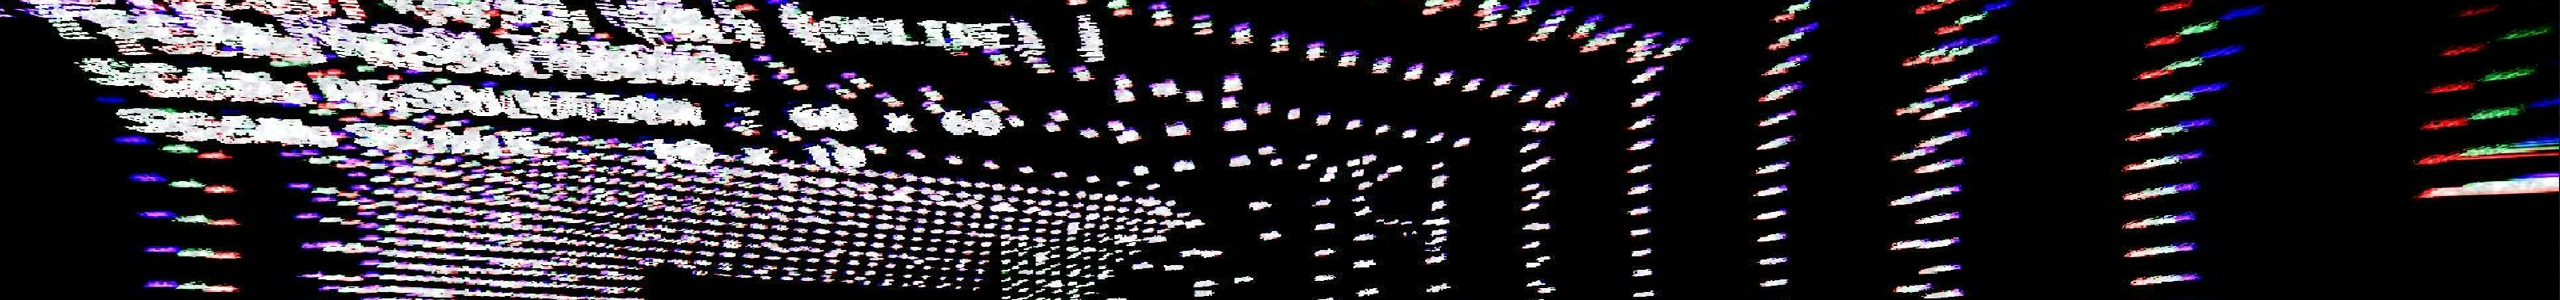
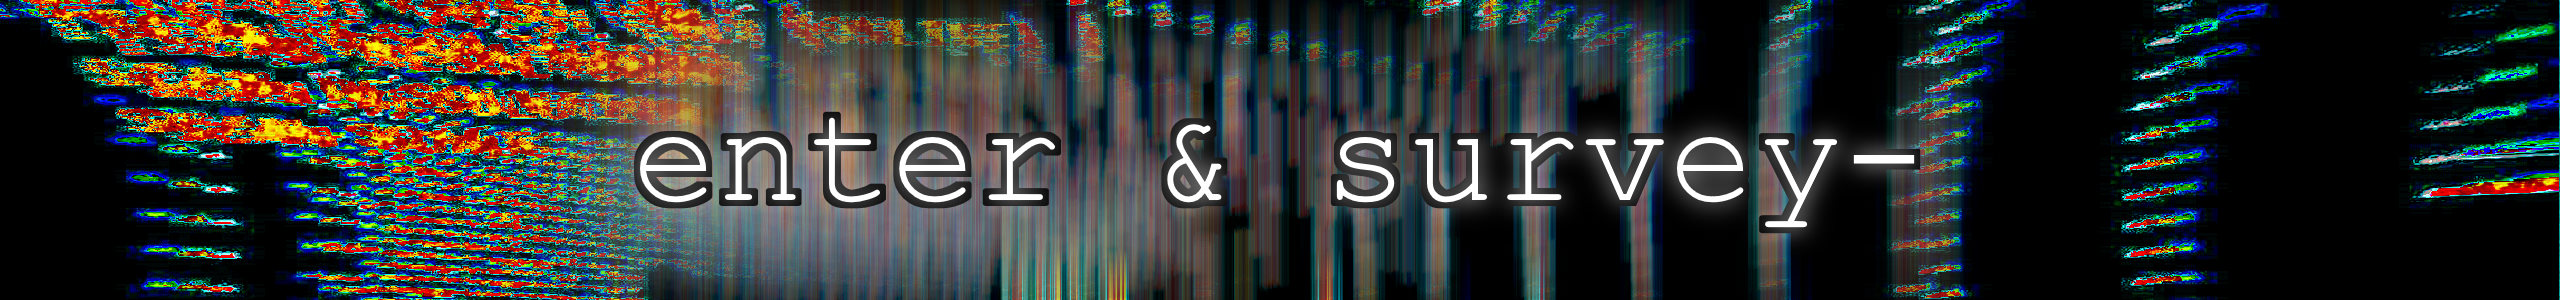
Website V2

diff --git a/index.html b/index.html
@@ -21,65 +21,30 @@
     <body>
         <div class="center">
             <script src="assets/scripts/header.js"></script>
-            
-            <h2>About</h2>
-            <hr>
-            <p>
-                We are a small British independent game studio & publisher creating quality PC games. 
-                <br><br>
-                Our current flagship is Wyoming Winter which was released in December 2022 on Steam. It is a multiplayer arcade horror game in which a group of department of defence employees sneak around an office complex in hopes of finding a defence against the entity stalking them through the hallways.
-                <br><br>
-                We honestly strive to only publish games we ourselves find fun. Origional, fun experiences from the start.
-            </p>            
+            <br>
+            <br>
+            <br>
+            <br>
+            <br>
+            <br>
+            <br>
+            <br>
+            <br>
             <br>
             
-            <h2>Our In-House Games</h2>
-            <hr>
-
-            <div>
-                <a href="https://store.steampowered.com/app/2214170/Wyoming_Winter/" target="_blank"> <img src="assets/images/wyomingwinter.jpg" style="cursor: pointer;"> </a>
+            <h2 style="text-align:center;">An independent British games studio working on great games.</h2>
+            <p style="text-align:center; margin-top: -1%; color:lightgray;">Based in the UK, ValleyHound Games is a small independent game studio currently working on Wyoming Winter.</p>
+            <p style="text-align:center; margin-top: -1%; color:lightgray;">We're a Steamworks partner and self publish to Steam.</p>
+            <br>
+            <br>
+            <br>
+            <br>
+            <div style="width:100%;vertical-align:right;text-align:right;">
+                <a href="https://store.steampowered.com/app/2214170/Wyoming_Winter/" target="_blank"><img src="assets/images/wyomingwinter.jpg" style="cursor: pointer; display: inline-block; width: 49.5%;"></a>
+                <a href="https://valleyhound.itch.io/enter-and-survey" target="_blank"><img src="assets/images/entersurvey.jpg" style="cursor: pointer; display: inline-block; width: 49.5%"></a>
+                <img src="assets/images/vhbase.jpg" alt="Coming Soon." style="cursor: pointer; display: inline-block; width: 49.5%">
             </div>
-            <h3>Wyoming Winter - Steam Publication</h3>
-            <p>Published in 2022 to itch.io before being made accessible on Steam December 9th the same year, Wyoming Winter is our current flagship in-house development and represents more than two years of development & refinement.</p>
             <br>
-            <br>
-
-
-
-            <div>
-                <a href="https://valleyhound.itch.io/enter-and-survey" target="_blank"> <img src="assets/images/entersurvey.jpg" style="cursor: pointer;"> </a>
-            </div>
-            <h3>Enter & Survey - Tech Demo / Upcoming Steam Publication</h3>
-            <p>Initially produced as a game jam entry, Enter & Survey quickly became a ambient horror favourite on itch.io thanks to its unique art style and mechanics. E&S is currently under development for a future full Steam release.</p>
-            <br>
-            <br>
-
-            <h2>Our Products</h2>
-            <hr>
-
-            <div>
-                <a href="" target="_blank"> <img src="assets/images/vhbase.jpg" style="cursor: pointer;"> </a>
-            </div>
-            <h3>ValleyHound Base - A Complete Standard for Unity Prototyping</h3>
-            <p>ValleyHound Base is a complete standard development toolset for the Unity game engine designed with ValleyHound Game's workflows. Becoming available for clients soon it will be a showcase of internal tools and demonstrate our processes for game development. ValleyHound Base is built with premade internal development tools, assets and workflows. A key part of VHBase is <i>VHB oversight</i> which keeps track of the scene and assets to ensure that tight rules and workflows are maintained to avoid sloppy work.</p>
-            
-            <br>
-            <h2>Tweets</h2>
-            <hr>
-            <a class="twitter-timeline" data-height="800" data-dnt="true" href="https://twitter.com/valleyhoundsoft?ref_src=twsrc%5Etfw">Tweets by valleyhoundsoft</a> <script async src="https://platform.twitter.com/widgets.js" charset="utf-8"></script> 
-
-       
-            
-            <br>
-            <h2>Contact</h2>
-            <hr>
-            <p>We usually respond within 12 hours to support requests but may take up to 24 for business related requests.</p>
-            <p><b>Email (player support) : </b><a href="mailto:support@valleyhound.games"><u>support@valleyhound.games</u></a><br>
-            <b>Email (business client support) : </b><a href="mailto:clients@valleyhound.games"><u>clients@valleyhound.games</u></a><br>
-            <b>Email (business enquiries) : </b><a href="mailto:business@valleyhound.games"><u>business@valleyhound.games</u></a></p>
-            <p>GitHub : <u><a href="https://github.com/valleyhound" target="_blank">@valleyhound</a></u><span class="prevent_select" style="color:white;">________</span>
-            Twitter : <u><a href="https://twitter.com/valleyhoundsoft" target="_blank">@ValleyHoundUK</a></u></p>
-            
         </div>
 
         

diff --git a/aboutus/index.html b/aboutus/index.html
@@ -1,0 +1,53 @@
+<meta charset="utf-8">
+<meta name="description" content="ValleyHound Games is amn independent British game studio & publisher creating unique experiences.">
+<!DOCTYPE html>
+<html>
+    <head>
+        <title>ValleyHound Games</title>
+        <link rel="shortcut icon" type="image/x-icon" href="/favicon.png"/>
+        <link rel="stylesheet" href="/assets/styles/style.css">
+    </head>
+    <!-- Google tag (gtag.js) -->
+    <script async src="https://www.googletagmanager.com/gtag/js?id=G-F4QV5Z014S"></script>
+    <script>
+    window.dataLayer = window.dataLayer || [];
+    function gtag(){dataLayer.push(arguments);}
+    gtag('js', new Date());
+
+    gtag('config', 'G-F4QV5Z014S');
+    </script>
+
+
+    <body>
+        <div class="center">
+            <script src="/assets/scripts/basicheader.js"></script>
+            <img src="/assets/images/aboutus_banner.png" style="margin-top:2%;margin-bottom:-25%">
+        
+            <br>
+            <br>
+            <br>
+            <br>
+            <br>
+            <br>
+            <br>
+            <br>
+            <br>
+            <br>
+            
+            <h2 style="text-align:center;">An independent British games studio working on great games.</h2>
+            <p style="text-align:center; margin-top: -1%; color:lightgray;">Based in the UK, ValleyHound Games is a small independent game studio currently working on our flagship game, Wyoming Winter.</p>
+            <p style="text-align:center; margin-top: -1%; color:lightgray;">We're a Steamworks partner and self publish to Steam under the ValleyHound Games publisher account.</p>
+            <br>
+            <p style="text-align:center; margin-top: -1%; color:lightgray;">ValleyHound Games was founded in March 2022 to publish Wyoming Winter after the game was in development for over a year.</p>
+            <p style="text-align:center; margin-top: -1%; color:lightgray;">We started on itch.io and moved to Steam in December 2022.</p>
+            <br>
+            <h2 style="text-align:center;">We make the games we play.</h2>
+            <p style="text-align:center; margin-top: -1%; color:lightgray;">When it comes to the type of games we make, unless we are developing for a client we only make games that we would play casually ourselves. That means only making games we ourselves find fun.</p>
+            <p style="text-align:center; margin-top: -1%; color:lightgray;">It is the core tenant for how we select the ideas we want to work on.</p>
+
+            <img src="/assets/images/viewport_aboutus.png">
+        </div>
+
+        
+    </body>
+</html>

diff --git a/wyomingwinter/index.html b/wyomingwinter/index.html
@@ -1,12 +1,12 @@
 <meta charset="utf-8">
+<meta name="description" content="ValleyHound Games is amn independent British game studio & publisher creating unique experiences.">
 <!DOCTYPE html>
 <html>
     <head>
-        <title>ValleyHound - Blog</title>
-        <link rel="shortcut icon" type="image/x-icon" href="../favicon.png"/>
-        <link rel="stylesheet" href="../assets/styles/style.css">
+        <title>ValleyHound Games</title>
+        <link rel="shortcut icon" type="image/x-icon" href="/favicon.png"/>
+        <link rel="stylesheet" href="/assets/styles/style.css">
     </head>
-    
     <!-- Google tag (gtag.js) -->
     <script async src="https://www.googletagmanager.com/gtag/js?id=G-F4QV5Z014S"></script>
     <script>
@@ -17,20 +17,14 @@
     gtag('config', 'G-F4QV5Z014S');
     </script>
 
+
     <body>
         <div class="center">
-            <script src="assets/scripts/header.js"></script>
-
-            <p>Placeholder</p>
-
-            <br>
-            <h2>Contact</h2>
-            <hr>
-            <p>We usually respond within 12 hours to support requests but may take up to 24 for business related requests.</p>
-            <p><b>Email (player support) : </b><a href="mailto:support@valleyhound.games"><u>support@valleyhound.games</u></a><br>
-            <b>Email (current client support) : </b><a href="mailto:clients@valleyhound.games"><u>clients@valleyhound.games</u></a><br>
-            <b>Email (business enquiry) : </b><a href="mailto:business@valleyhound.games"><u>business@valleyhound.games</u></a></p>
-            <p>GitHub : <u><a href="https://github.com/valleyhound" target="_blank">@valleyhound</a></u></p>
+            <script src="/assets/scripts/basicheader.js"></script>
+            <img src="/assets/images/wyomingwinter_titlecard.jpg" style="margin-top:2%;margin-bottom:-25%">
+        
         </div>
+
+        
     </body>
 </html>

diff --git a/blog/index.html b/blog/index.html
@@ -18,27 +18,10 @@
 
     <body>
         <div class="center">
-            <script src="/assets/scripts/header.js"></script>
+            <script src="/assets/scripts/basicheader.js"></script>
 
             <div id="blog_area"></div>
             <script src="blog_manager.js"></script>
-
-            <br>
-            <h2>Tweets</h2>
-            <hr>
-            <a class="twitter-timeline" data-height="800" data-dnt="true" href="https://twitter.com/valleyhoundsoft?ref_src=twsrc%5Etfw">Tweets by valleyhoundsoft</a> <script async src="https://platform.twitter.com/widgets.js" charset="utf-8"></script> 
-
-       
-            
-            <br>
-            <h2>Contact</h2>
-            <hr>
-            <p>We usually respond within 12 hours to support requests but may take up to 24 for business related requests.</p>
-            <p><b>Email (player support) : </b><a href="mailto:support@valleyhound.games"><u>support@valleyhound.games</u></a><br>
-            <b>Email (business client support) : </b><a href="mailto:clients@valleyhound.games"><u>clients@valleyhound.games</u></a><br>
-            <b>Email (business enquiries) : </b><a href="mailto:business@valleyhound.games"><u>business@valleyhound.games</u></a></p>
-            <p>GitHub : <u><a href="https://github.com/valleyhound" target="_blank">@valleyhound</a></u><span class="prevent_select" style="color:white;">________</span>
-                Twitter : <u><a href="https://twitter.com/valleyhoundsoft" target="_blank">@ValleyHoundUK</a></u></p>
         </div>
     </body>
 </html>

diff --git a/assets/styles/style.css b/assets/styles/style.css
@@ -4,28 +4,38 @@
     to {opacity: 1.0;}
 }
 
+@keyframes slide
+{
+    from{opacity: 0.0; transform: translateY(0%);}
+    to {opacity: 1.0; transform: translateY(0%);}
+}
+
 html
 {
     overflow-y: auto;
     overflow-x: hidden;
 }
 
+body{
+    background-color: black;
+}
+
 html, body
 { 
     height : 95%;
-    max-width: 1000px;
+    max-width: 2000px;
     margin:auto;
     padding: 1%;
     
     animation-name: faded;
-    animation-duration: 1s;
-    transition: transform 1s ease-in;
+    animation-duration: 2s;
+    transition-timing-function: ease-in;
 }
 
 h1, h2, h3, p 
 {
     font-family: 'Franklin Gothic Medium', 'Arial Narrow', Arial, sans-serif;
-    color: rgb(25, 25, 25);
+    color: rgb(255, 255, 255);
 }
 
 p, h2, h3, h1 {
@@ -39,7 +49,6 @@ h3{
 
 b 
 {
-    color: rgb(0, 0, 0);
 }
 
 .center
@@ -51,7 +60,7 @@ b
 
 a
 {
-    color: rgb(25, 25, 25);
+    color: rgb(255, 255, 255);
     text-decoration: none;
 }
 
@@ -65,10 +74,6 @@ img
     max-width: 100%;
     width : auto;
     height: auto;
-    animation-delay: -1s;
-    animation-name: faded;
-    animation-duration: 1s;
-    transition: transform 1s ease-in;
 }
 
 .blog_date{

diff --git a/assets/scripts/basicheader.js b/assets/scripts/basicheader.js
@@ -1,0 +1,21 @@
+var headerCode = `
+    <div style="vertical-align:right;text-align:right;">
+    <a href="https://www.youtube.com/@valleyhound" target="_blank"><img src="/assets/images/youtube_icon_white.png" style="width:32px;display: inline-block;"></a>
+    <a href="https://twitter.com/ValleyHoundUK" target="_blank"><img src="/assets/images/twitter_icon_white.png" style="width:32px;display: inline-block;"></a>
+    <a href="https://github.com/valleyhound" target="_blank"><img src="/assets/images/github_icon_white.png" style="width:32px;display: inline-block;"></a>
+    <a href="mailto:support@valleyhound.games" target="_blank"><img src="/assets/images/mail_icon_white.png" style="width:32px;display: inline-block;"></a>
+    </div>
+
+    <p style="font-size:120%;text-align: left;margin-left:0.5%;margin-top:-2%;margin-bottom:0.25%;display: inline-block;">
+    <a href="/">Home</a>
+
+    <span class="prevent_select" style="color:black;">____</span>
+    <a href="/blog/">Blog</a>
+
+    <span class="prevent_select" style="color:black;">____</span>
+    <a href="/aboutus/">About Us</a>
+     
+    </p>
+`;
+
+document.write(headerCode);

diff --git a/assets/scripts/header.js b/assets/scripts/header.js
@@ -1,8 +1,6 @@
 var headerCode = `
-    <img src="/assets/images/banner.png">
-    <p style="text-align: center;">
-    <a href="https://valleyhound.games">Home</a><span class="prevent_select" style="color:white;">________</span><a href="/blog/">Blog</a><!--<span class="prevent_select" style="color:white;">________</span><a href="/wyomingwinter/">Wyoming Winter</a>-->
-    </p>
+    <script src="/assets/scripts/basicheader.js"></script>
+    <img src="/assets/images/extended_header.png" style="margin-top:2%;margin-bottom:-25%">
 
     <br>
     <br>
